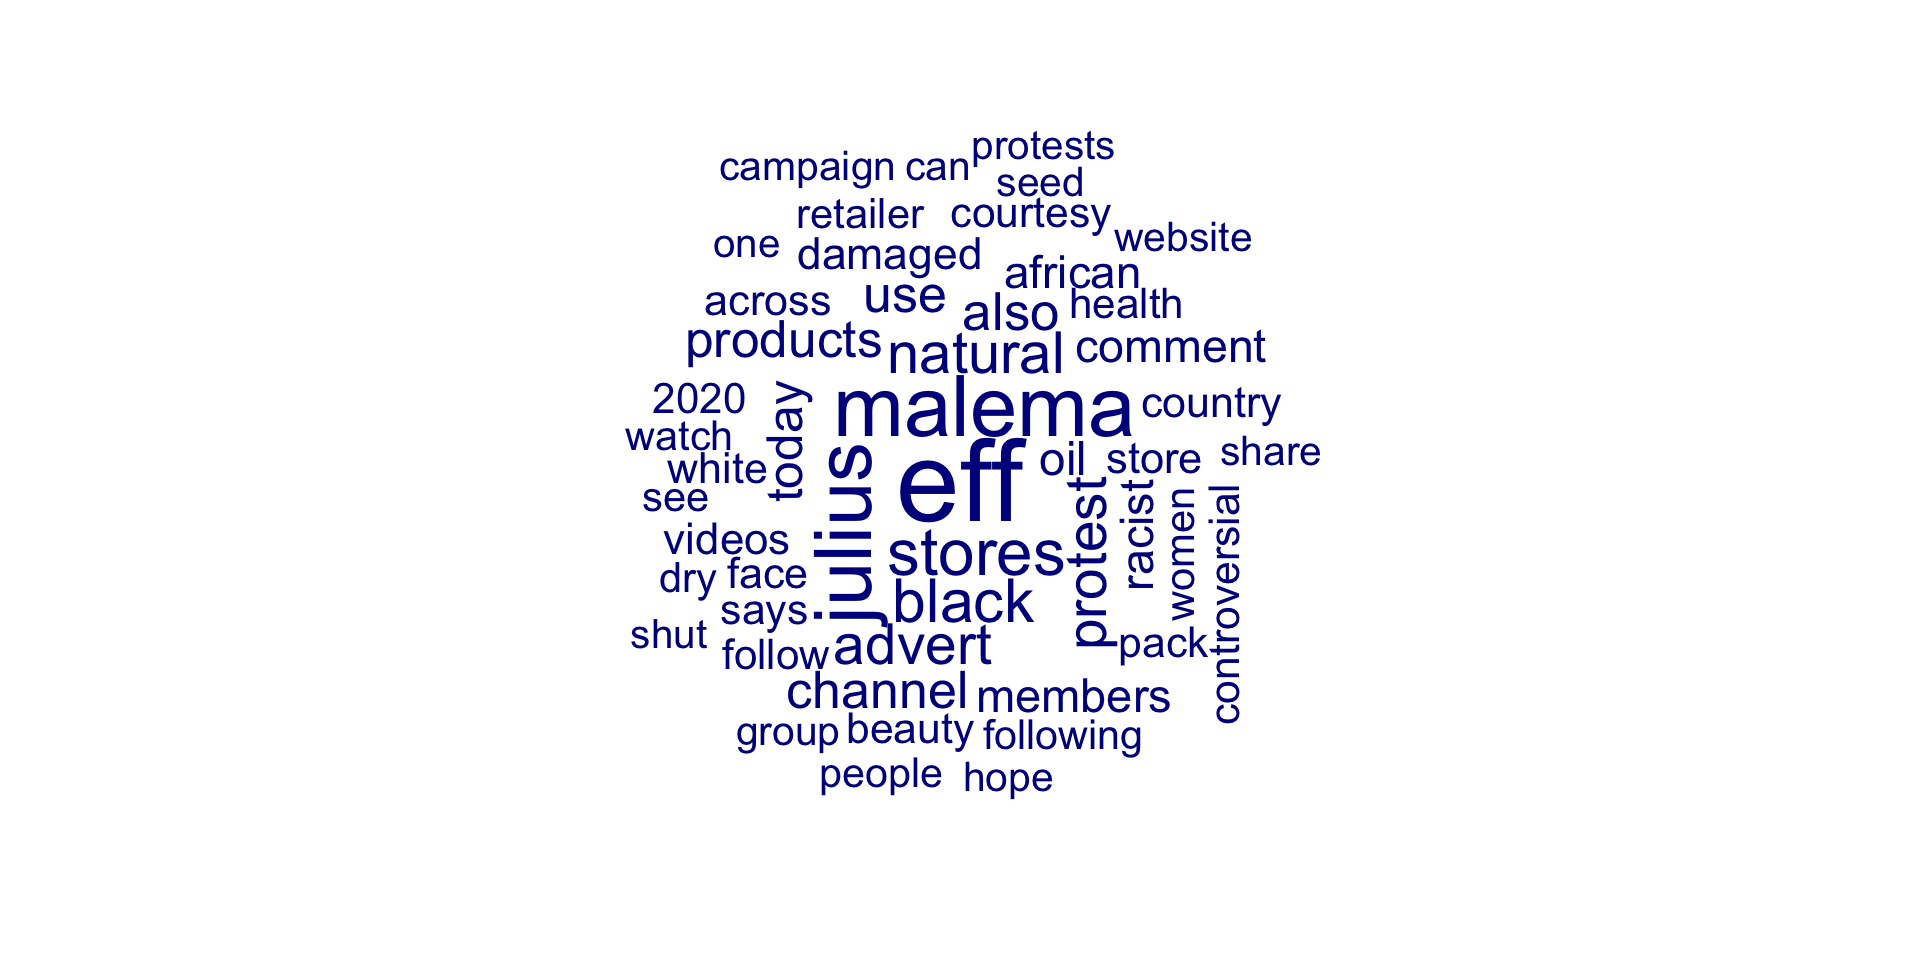
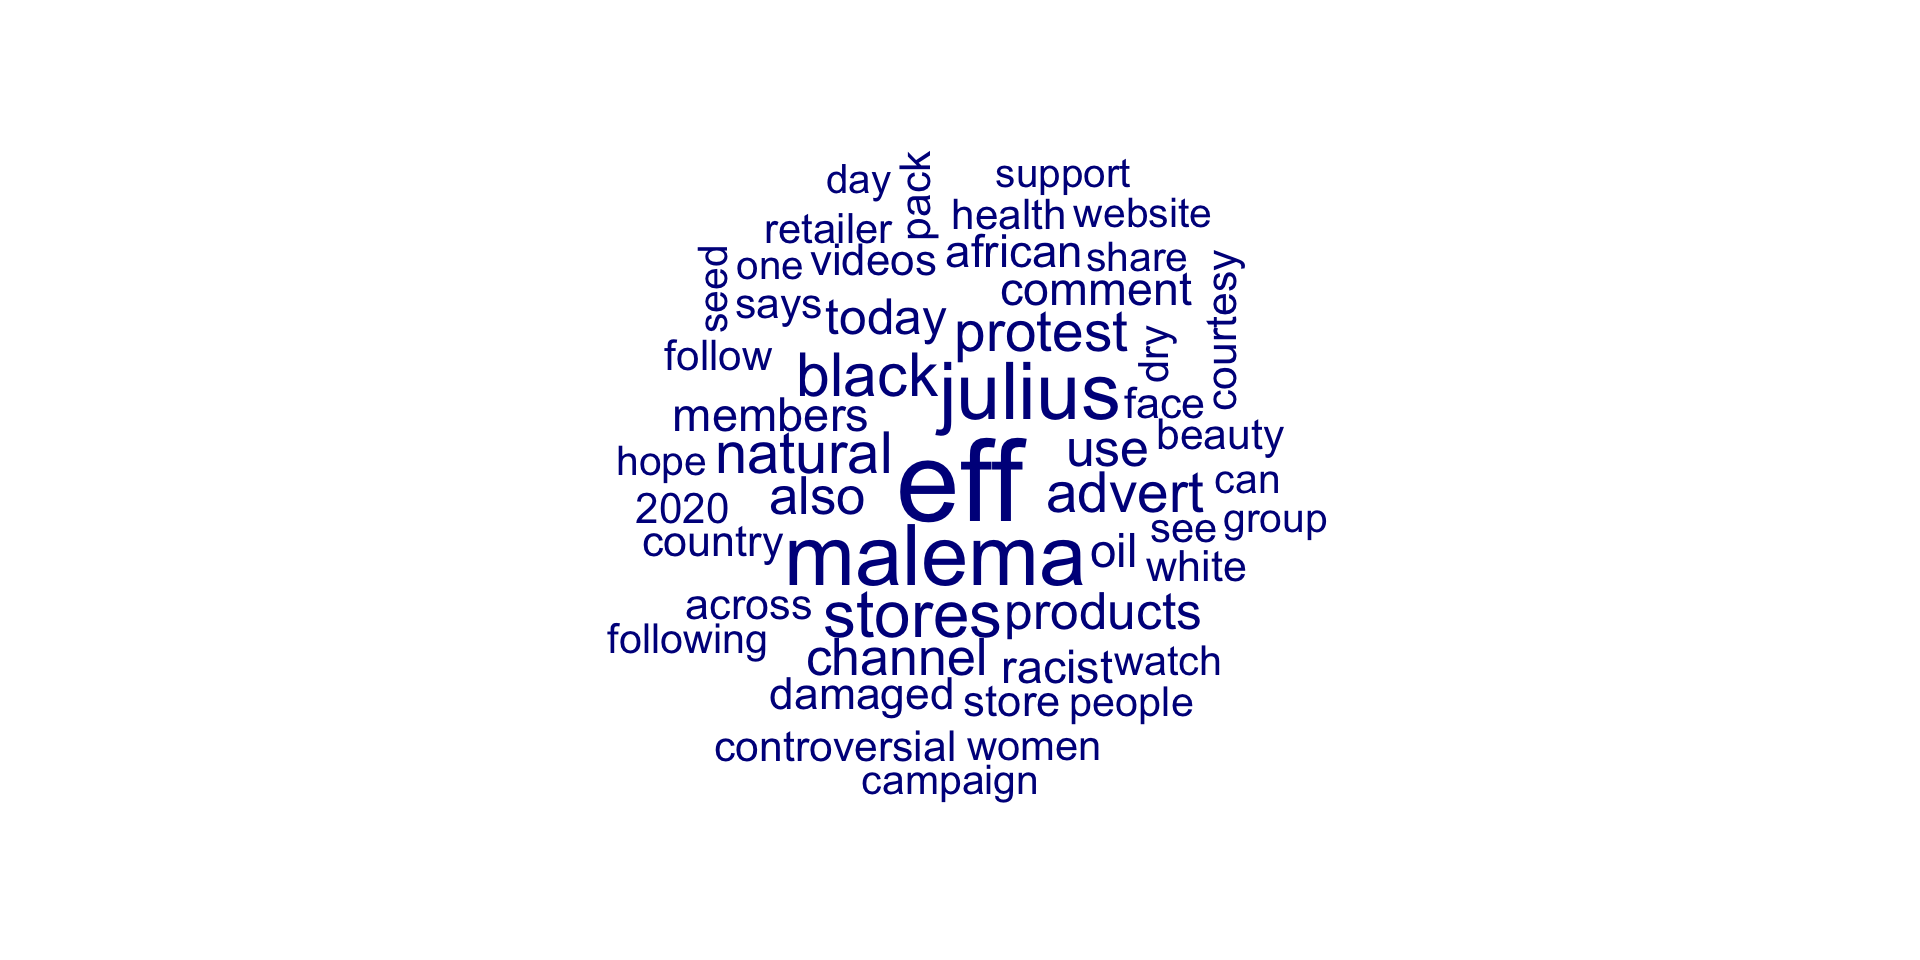
voyant tools demo lecture 2

Changed region(s): [[0.3125, 0.125, 0.6875, 0.8438]]

diff --git a/files/CL_CDA_Lecture2.html b/files/CL_CDA_Lecture2.html
@@ -807,6 +807,13 @@ Marion Walton
 <li><a href="https://voyant-tools.org/?corpus=999ec9a5afffeb064d5ccffbc5afd28e&amp;stopList=stop.multi.txt&amp;panels=cirrus,reader,trends,summary,contexts">Clicks Comments (Random sample) in Voyant Tools - with Stop List</a></li>
 </ol>
 </section>
+<section id="how-to-videos" class="slide level2">
+<h2>How-to Videos</h2>
+<ul>
+<li>Please see Amathuba Lecture Slides tab for “How-to” video with demos of how to use Voyant Tools concordancer</li>
+</ul>
+
+<img data-src="img/voyant_tools_screenshot.png" class="r-stretch quarto-figure-center"><p class="caption">Voyant Tools “How To” video on Amathuba</p></section>
 <section id="starting-points---concordance" class="slide level2">
 <h2>Starting points - Concordance</h2>
 <ul>
